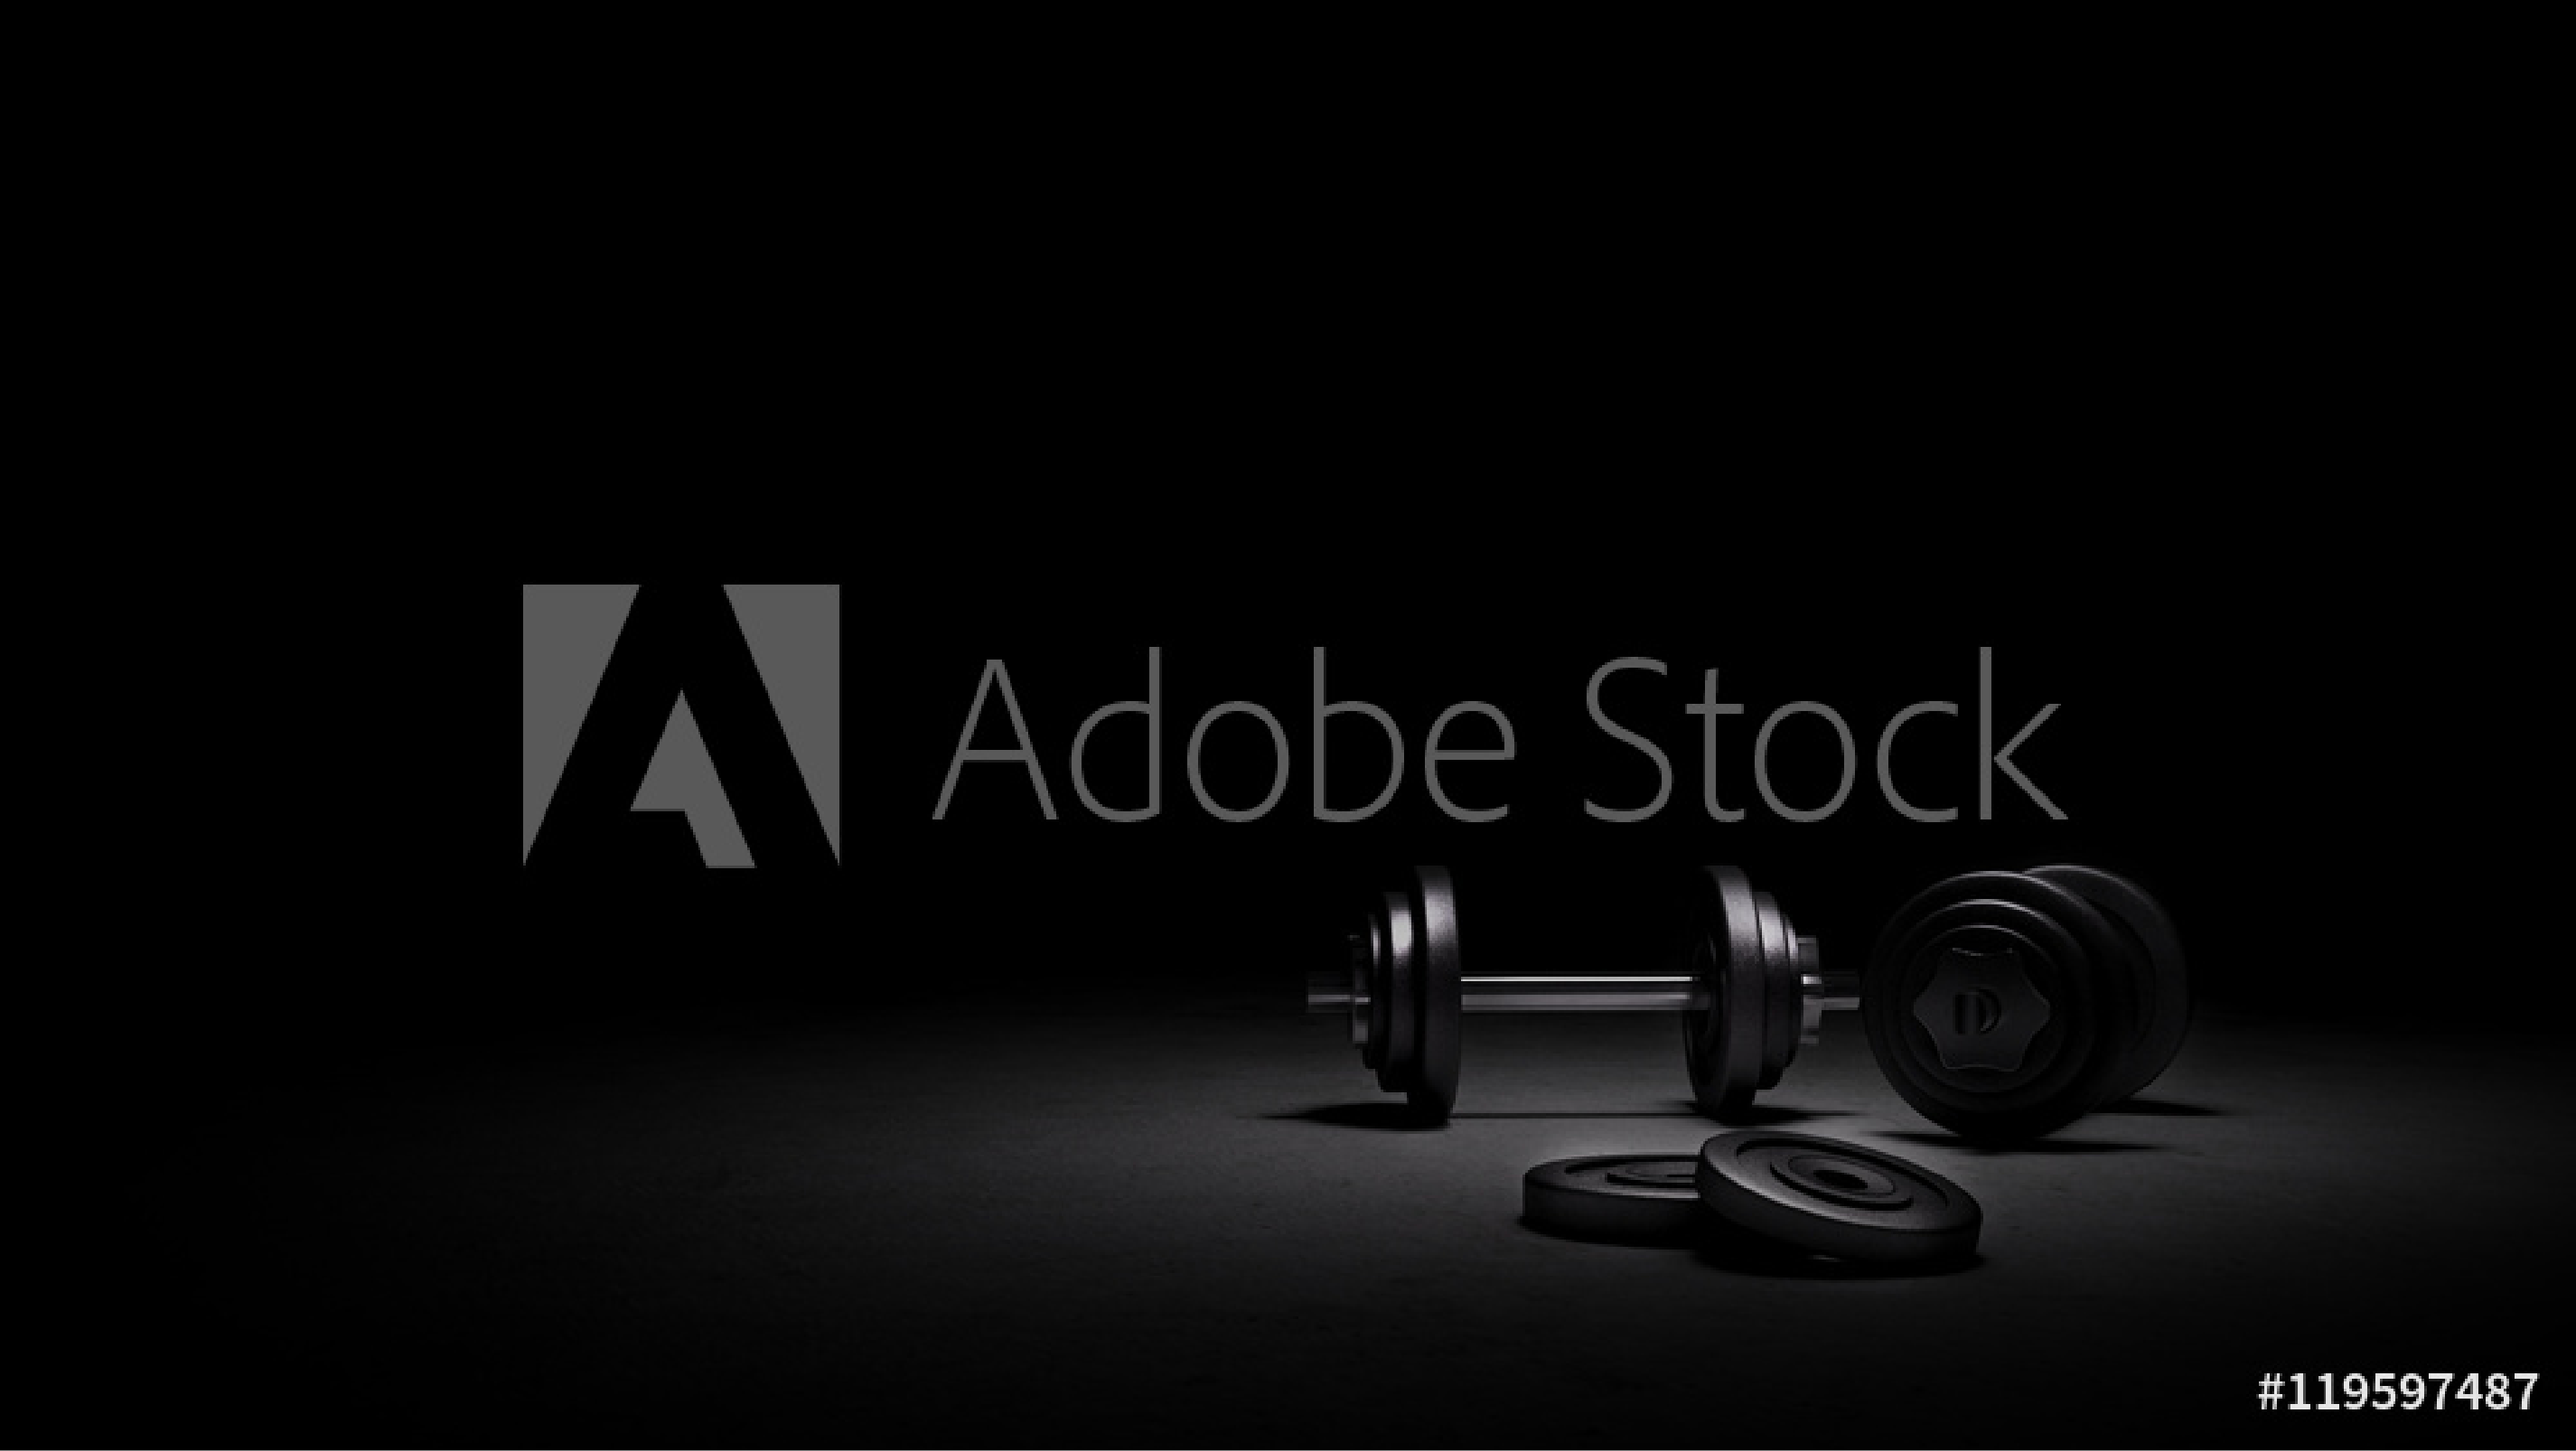
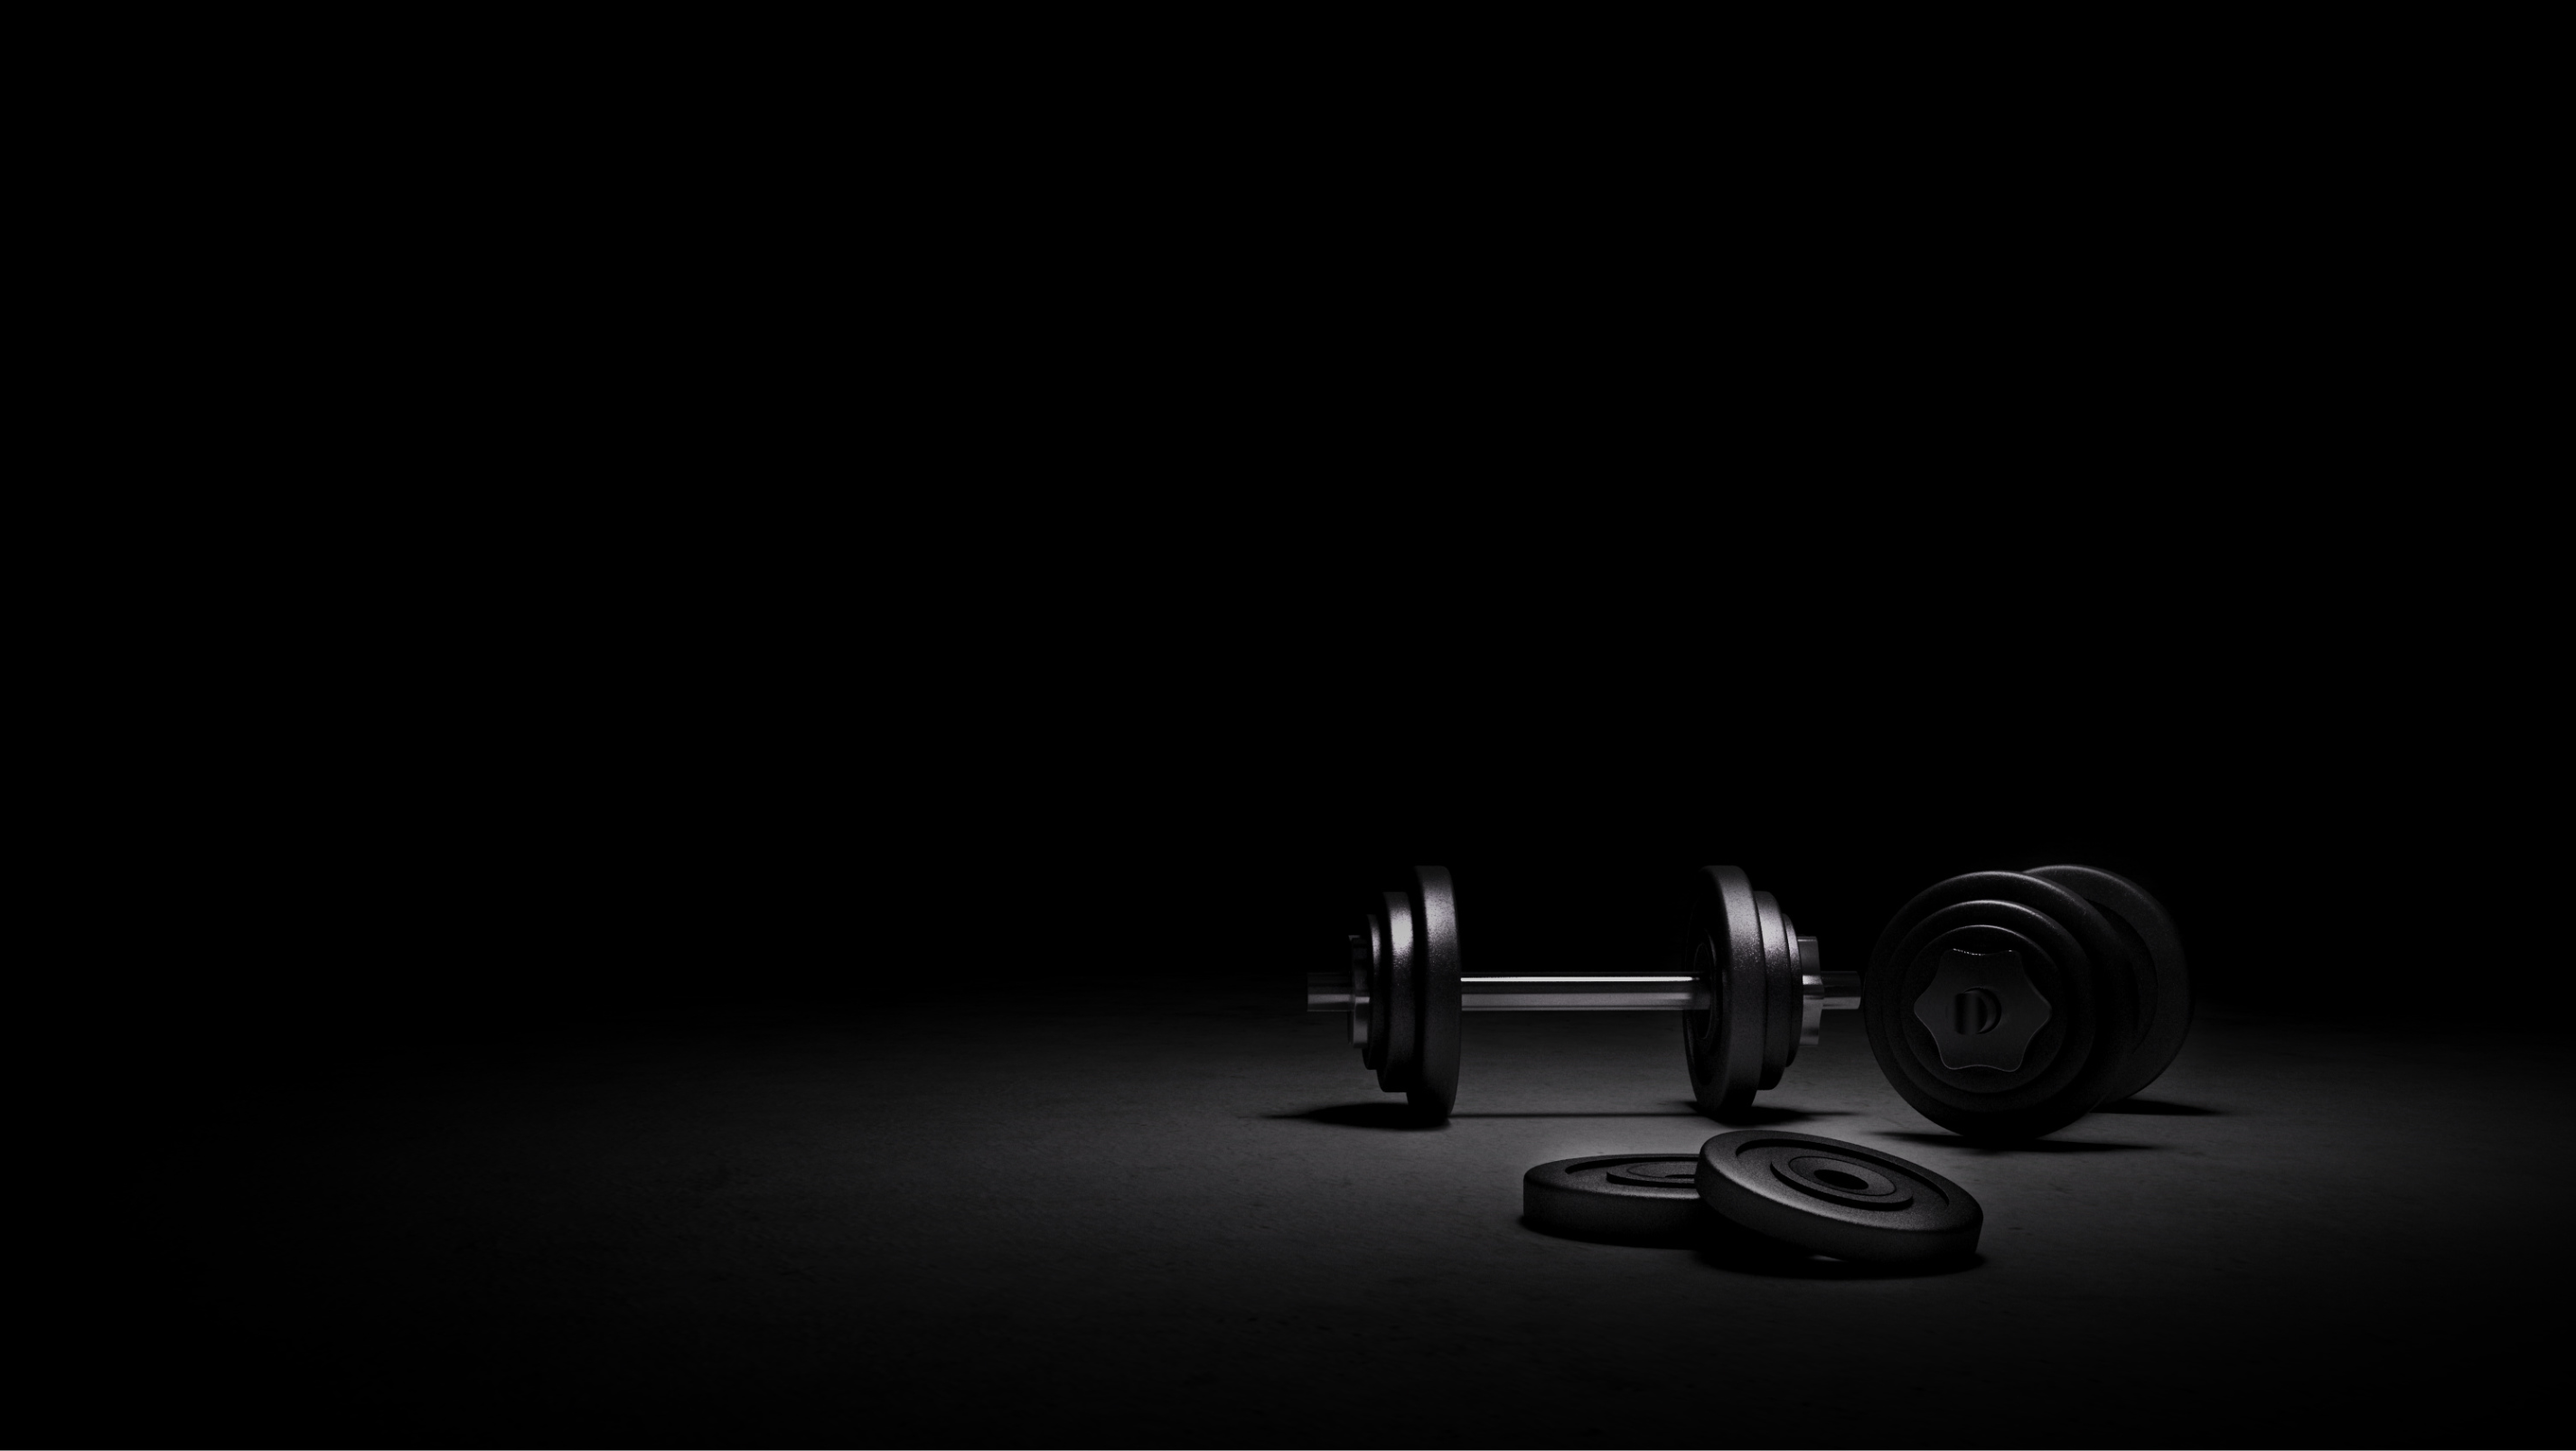
Style changes for slider and about sections, updated img files to full version

diff --git a/src/html/sections/second-about-section.html b/src/html/sections/second-about-section.html
@@ -15,10 +15,9 @@
             <li><img src="/src/img/icon/guru.svg">yoga class</li>
             <li><img src="/src/img/icon/regular_biking.svg">spinning</li>
             <li><img src="/src/img/icon/jump_rope.svg">cardio classes</li>
-            <li><img src="/src/img/icon/jump_rope.svg">cardio classes</li>
-            <li><img src="/src/img/icon/regular_biking.svg">spinning</li>
-            <li><img src="/src/img/icon/jump_rope.svg">cardio classes</li>
-            <li><img src="/src/img/icon/jump_rope.svg">cardio classes</li>
+            <li><img src="/src/img/icon/swimming.svg">swimming pool</li>
+            <li><img src="/src/img/icon/boxing.svg">boxing trainings</li>
+            <li><img src="/src/img/icon/exercise.svg">group running trainings</li>
         </ul>
     </article>
 </section>

diff --git a/src/sass/sections/_second-about-section.scss b/src/sass/sections/_second-about-section.scss
@@ -2,12 +2,14 @@
     display: flex;
     justify-content: space-between;
 
-    background-image: url('/src/img/lift-weight.png');
+    background-image: url('/src/img/lift-weight-2x.png');
     background-repeat: no-repeat;
-    //background-position-x: 250px;
-    background-position-y: -400px;
+    background-size: 210%;
+    background-position-y: -430px;
+    background-position-x: -510px;
 
-    height: 760px;
+    height: 650px;
+    margin-top: 60px;
 
     .cta-content {
         width: 30%;
@@ -24,6 +26,7 @@
 
                 img {
                     margin-right: 20px;
+                    //margin-top: 5px;
                 }
             }
         }

diff --git a/src/sass/sections/_first-slider-section.scss b/src/sass/sections/_first-slider-section.scss
@@ -1,10 +1,12 @@
 .slider-section {
-    background-image: url('/src/img/catherine-brook-2x.png');
+    background-image: url('/src/img/catherine-brook.png');
     background-repeat: no-repeat;
     background-position-x: 250px;
-    background-position-y: -400px;
+    background-position-y: -461px;
 
     height: 760px;
+
+    padding-top: 10px;
 
     .cta-container {
         width: 30%;
